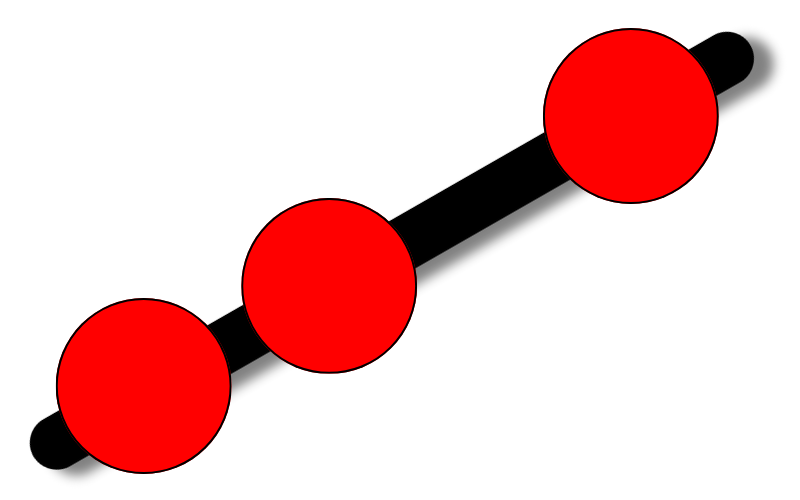
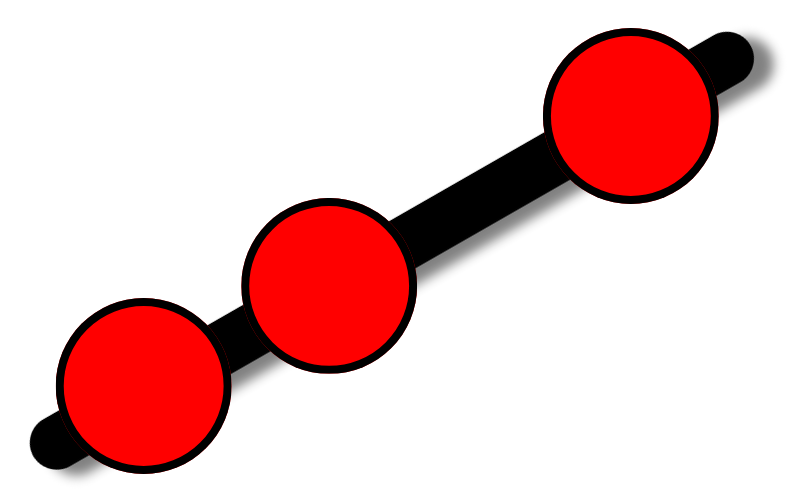
Add files via upload

diff --git a/random_points_dialog.py b/random_points_dialog.py
@@ -1,32 +1,8 @@
-# -*- coding: utf-8 -*-
-"""
-/***************************************************************************
- RandomPointsDialog
-                                 A QGIS plugin
-Random Points on Lines... is to generate random points on line layers, enhancing spatial data analysis by quickly simulating random data points.
- Generated by Plugin Builder: http://g-sherman.github.io/Qgis-Plugin-Builder/
-                             -------------------
-        begin                : 2024-10-21
-        git sha              : $Format:%H$
-        copyright            : (C) 2024 by GIS Innovation Sdn. Bhd.
-        email                : sales@gis.fm
- ***************************************************************************/
-
-/***************************************************************************
- *                                                                         *
- *   This program is free software; you can redistribute it and/or modify  *
- *   it under the terms of the GNU General Public License as published by  *
- *   the Free Software Foundation; either version 2 of the License, or     *
- *   (at your option) any later version.                                   *
- *                                                                         *
- ***************************************************************************/
-"""
-
 import os
 import random
 
 from qgis.PyQt import uic, QtWidgets
-from qgis.core import QgsProject, QgsGeometry, QgsFeature, QgsVectorLayer, QgsPointXY, QgsWkbTypes, QgsMapLayerProxyModel, QgsField
+from qgis.core import QgsProject, QgsGeometry, QgsFeature, QgsVectorLayer, QgsPointXY, QgsWkbTypes, QgsMapLayerProxyModel, QgsField, QgsCoordinateTransform, QgsCoordinateReferenceSystem, QgsSingleSymbolRenderer, QgsMarkerSymbol
 from PyQt5.QtCore import Qt, QVariant
 from qgis.PyQt.QtCore import pyqtSignal
 from qgis.utils import iface
@@ -53,14 +29,21 @@ class RandomPointsDialog(QtWidgets.QDialog, FORM_CLASS):
 
         # Set default layer
         self.setDefaultLayer()
-    
+
         # Set window to stay on top
         self.setWindowFlags(self.windowFlags() | Qt.WindowStaysOnTopHint)
+
+        # Make the dialog visually appealing
+        self.setWindowTitle("Generate Random Points Along Lines")
+        self.setFixedSize(400, 300)  # Adjusted size for a more compact, user-friendly layout
 
     def setDefaultLayer(self):
         """Sets the default layer to the first visible line layer."""
         layers = QgsProject.instance().layerTreeRoot().children()
-        visible_line_layers = [layer.layer() for layer in layers if isinstance(layer.layer(), QgsVectorLayer) and layer.isVisible() and layer.layer().geometryType() == QgsWkbTypes.LineGeometry]
+        visible_line_layers = [
+            layer.layer() for layer in layers
+            if isinstance(layer.layer(), QgsVectorLayer) and layer.isVisible() and layer.layer().geometryType() == QgsWkbTypes.LineGeometry
+        ]
 
         if visible_line_layers:
             # Set the first visible line layer
@@ -80,9 +63,7 @@ class RandomPointsDialog(QtWidgets.QDialog, FORM_CLASS):
     def generate(self):
         """Triggered when OK button is clicked to generate random points."""
         # Get selected layer and number of random points from the dialog
-        # Using QgsMapLayerComboBox
         line_layer = self.Layer.currentLayer()  
-        # Using QgsSpinBox
         num_random_points = self.RandomPoints.value()  
 
         # Ensure a valid line layer is selected
@@ -90,12 +71,25 @@ class RandomPointsDialog(QtWidgets.QDialog, FORM_CLASS):
             QtWidgets.QMessageBox.critical(self, "Error", "Please select a valid line layer.")
             return
 
-        # Create a new memory layer for random points
-        random_points_layer = QgsVectorLayer("Point?crs=EPSG:4326", "Random Points", "memory")
+        # Use the CRS of the selected line layer for the random points layer
+        crs = line_layer.crs().toWkt()  # Get the CRS in WKT format
+        random_points_layer = QgsVectorLayer(f"Point?crs={crs}", "Random Points", "memory")
+
         pr = random_points_layer.dataProvider()
-        pr.addAttributes([QgsField("ID", QVariant.Int), QgsField("Distance", QVariant.Double)])
+        pr.addAttributes([
+            QgsField("ID", QVariant.Int), 
+            QgsField("Distance", QVariant.Double),
+            QgsField("XCoord_", QVariant.Double),          # Easting in layer CRS
+            QgsField("YCoord_", QVariant.Double),          # Northing in layer CRS
+            QgsField("XCoordProjCRS", QVariant.Double),    # Easting in project CRS
+            QgsField("YCoordProjCRS", QVariant.Double)     # Northing in project CRS
+        ])
         random_points_layer.updateFields()
         random_points_layer.startEditing()
+
+        # Get project CRS and set up coordinate transformation
+        project_crs = QgsProject.instance().crs()
+        transform = QgsCoordinateTransform(line_layer.crs(), project_crs, QgsProject.instance())
 
         # Initialize unique ID
         unique_id = 1  
@@ -109,19 +103,39 @@ class RandomPointsDialog(QtWidgets.QDialog, FORM_CLASS):
             for point, distance in random_points:
                 point_feature = QgsFeature()
                 point_feature.setGeometry(QgsGeometry.fromPointXY(QgsPointXY(point)))
+
+                # Set attributes including Distance, XCoord_, YCoord_, XCoordProjCRS, and YCoordProjCRS
+                x_coord = point.x()
+                y_coord = point.y()
                 distance = round(line_geom.lineLocatePoint(QgsGeometry.fromPointXY(QgsPointXY(point))), 5)
-                # Set attributes
-                point_feature.setAttributes([unique_id, distance]) 
+
+                # Transform the point to project CRS
+                point_proj_crs = transform.transform(QgsPointXY(point))
+                x_coord_proj = point_proj_crs.x()
+                y_coord_proj = point_proj_crs.y()
+
+                point_feature.setAttributes([unique_id, distance, x_coord, y_coord, x_coord_proj, y_coord_proj]) 
+                
                 # Increment ID for each point
                 unique_id += 1  
+                
                 # Add feature to the provider
                 pr.addFeatures([point_feature]) 
 
-
-        # Commit changes and add the random points layer to the map
+        # Commit changes
         random_points_layer.commitChanges()
-        QgsProject.instance().addMapLayer(random_points_layer)
 
+        # Customize the appearance of the points
+        symbol = QgsMarkerSymbol.createSimple({
+            'color': '#db1e2a',         # Set the color to #db1e2a
+            'size': '2.3',              # Set the size to 2.3
+            'outline_color': '#000000', # Optional: outline color (black)
+            'outline_width': '0.5'      # Optional: outline width
+        })
+        random_points_layer.renderer().setSymbol(symbol)
+
+        # Add the random points layer to the map
+        QgsProject.instance().addMapLayer(random_points_layer)
         iface.mapCanvas().refresh()
 
         # Emit signal to uncheck toggle after generating points

diff --git a/random_points.py b/random_points.py
@@ -1,26 +1,5 @@
 # -*- coding: utf-8 -*-
-"""
-/***************************************************************************
- RandomPoints
-                                 A QGIS plugin
-Random Points on Lines... is to generate random points on line layers, enhancing spatial data analysis by quickly simulating random data points.
- Generated by Plugin Builder: http://g-sherman.github.io/Qgis-Plugin-Builder/
-                              -------------------
-        begin                : 2024-10-21
-        git sha              : $Format:%H$
-        copyright            : (C) 2024 by GIS Innovation Sdn. Bhd.
-        email                : sales@gis.fm
- ***************************************************************************/
 
-/***************************************************************************
- *                                                                         *
- *   This program is free software; you can redistribute it and/or modify  *
- *   it under the terms of the GNU General Public License as published by  *
- *   the Free Software Foundation; either version 2 of the License, or     *
- *   (at your option) any later version.                                   *
- *                                                                         *
- ***************************************************************************/
-"""
 from qgis.PyQt.QtCore import QSettings, QTranslator, QCoreApplication, QObject
 from qgis.PyQt.QtGui import QIcon
 from qgis.PyQt.QtWidgets import QAction

diff --git a/__init__.py b/__init__.py
@@ -1,28 +1,4 @@
 # -*- coding: utf-8 -*-
-"""
-/***************************************************************************
- RandomPoints
-                                 A QGIS plugin
- A plugin that can generate random points on layers.
- Generated by Plugin Builder: http://g-sherman.github.io/Qgis-Plugin-Builder/
-                             -------------------
-        begin                : 2024-10-21
-        copyright            : (C) 2024 by GIS Innovation Sdn. Bhd.
-        email                : sales@gis.fm
-        git sha              : $Format:%H$
- ***************************************************************************/
-
-/***************************************************************************
- *                                                                         *
- *   This program is free software; you can redistribute it and/or modify  *
- *   it under the terms of the GNU General Public License as published by  *
- *   the Free Software Foundation; either version 2 of the License, or     *
- *   (at your option) any later version.                                   *
- *                                                                         *
- ***************************************************************************/
- This script initializes the plugin, making it known to QGIS.
-"""
-
 
 # noinspection PyPep8Naming
 def classFactory(iface):  # pylint: disable=invalid-name
